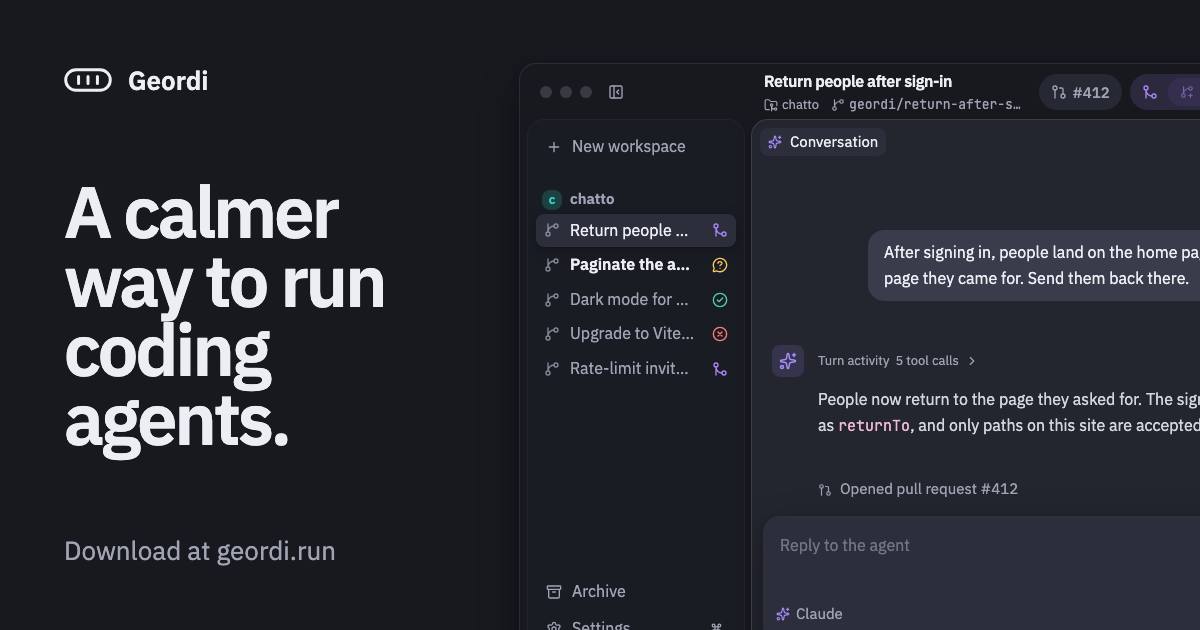
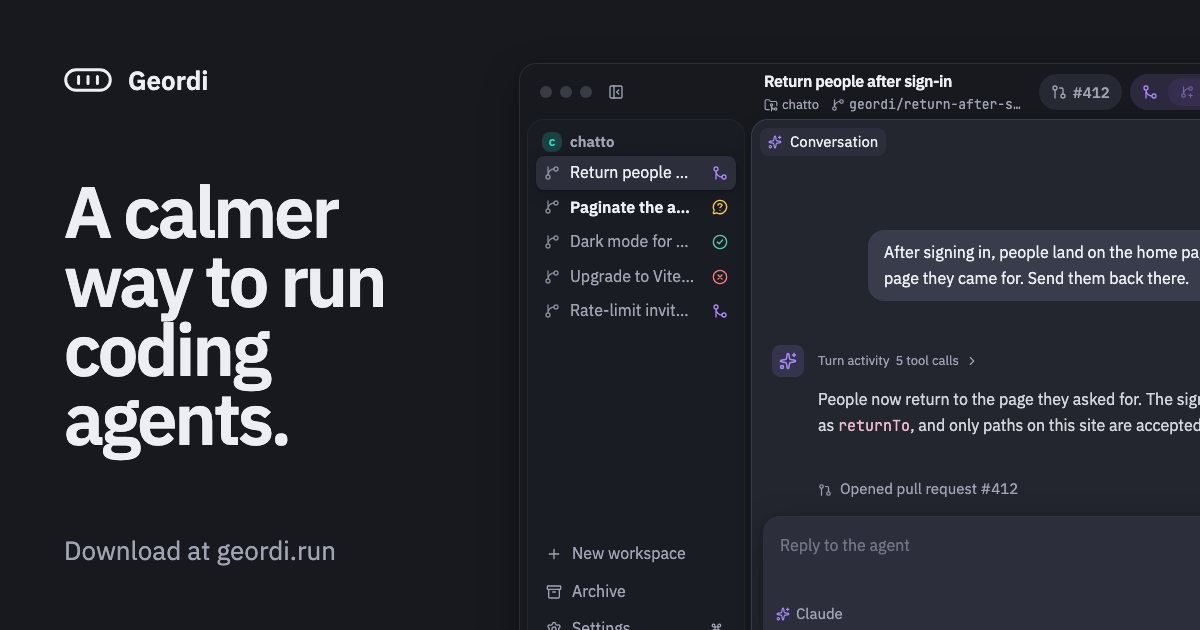
feat: add repository and Today filters to the sidebar (#338)

diff --git a/apps/web/src/lib/components/Sidebar.svelte b/apps/web/src/lib/components/Sidebar.svelte
@@ -2,6 +2,7 @@
 	import { resolve } from '$app/paths';
 	import type { WorkspaceStanding } from '@geordi/ui/actions';
 	import Dialog from '#lib/ui/Dialog.svelte';
+	import Select from '#lib/ui/Select.svelte';
 	import Button from '@geordi/ui/Button.svelte';
 	import ConnectionIndicator from './ConnectionIndicator.svelte';
 	import RepoIcon from '#lib/components/RepoIcon.svelte';
@@ -26,8 +27,7 @@
 	import { moveWorkspace, renameWorkspace, stopAgent } from '../../routes/workspaces.remote';
 
 	/**
-	 * The sidebar's sheet: a new workspace, the workspaces by
-	 * repository, and the archive and settings below. `nav` is what there is, once known; `path` is the
+	 * The sidebar groups workspaces by repository and keeps navigation links below the list. `nav` is what there is, once known; `path` is the
 	 * page on screen, which is marked. `folded` is what is folded away: the workspaces of a
 	 * repository under its name, and those its agents started under a workspace. `focus` is
 	 * the repository shown alone, if any. `visibleWorkspaces` are those shown, `todayOnly` whether
@@ -39,7 +39,8 @@
 		path,
 		folded,
 		focus,
-		todayOnly = false,
+		todayOnly = $bindable(false),
+		repositoryPickerOpen = $bindable(false),
 		lost = false
 	}: {
 		nav: Navigation | undefined;
@@ -48,6 +49,7 @@
 		folded: { current: string[] };
 		focus: { current: string | null };
 		todayOnly?: boolean;
+		repositoryPickerOpen?: boolean;
 		lost?: boolean;
 	} = $props();
 
@@ -68,10 +70,10 @@
 	]);
 	/** What stands for the projects among the folded: no repository has it as its ID. */
 	const PROJECTS = 'projects';
-	/** How many repositories a focus hides: offered at the end, to show them again. */
-	const hidden = $derived(
-		withWorkspaces.filter((repo) => listed.has(repo.id) && !sidebarRepos.includes(repo)).length
-	);
+	const repositoryOptions = $derived([
+		{ value: '', label: 'All repositories' },
+		...withWorkspaces.map(({ id, name }) => ({ value: id, label: name }))
+	]);
 
 	/**
 	 * Repositories and workspaces slide away and back when what is shown changes (the focus,
@@ -297,15 +299,36 @@
 	{/if}
 </Dialog>
 
-<div class="flex min-h-0 flex-1 flex-col sheet-quiet select-none">
-	<nav class="flex-1 space-y-6 overflow-y-auto p-2" aria-label="Main">
-		{@render link(resolve('/'), 'icon-[lucide--plus]', 'New workspace', path === '/')}
+<div class="flex min-h-0 min-w-0 flex-1 flex-col sheet-quiet select-none">
+	<nav class="flex min-h-0 flex-1 flex-col p-2" aria-label="Main">
+		<div
+			role="group"
+			aria-label="Workspace filters"
+			class="mb-2 flex shrink-0 items-center justify-between gap-1"
+		>
+			<Select
+				label="Repository"
+				title={`Search repositories (${hint('repositoryFilter')})`}
+				bind:open={repositoryPickerOpen}
+				options={repositoryOptions}
+				bind:value={() => focus.current ?? '', (value) => (focus.current = value || null)}
+			/>
+			<Button
+				variant="ghost"
+				icon="icon-[lucide--calendar-days]"
+				label="Show workspaces active today"
+				title={`Show workspaces active today (${hint('todayOnly')})`}
+				aria-pressed={todayOnly}
+				class="aria-pressed:bg-sunken aria-pressed:text-ink"
+				onclick={() => (todayOnly = !todayOnly)}
+			/>
+		</div>
 
 		<!--
 			Each repository keeps its own space below it, rather than space between them: what
 			slides away takes its space along, and nothing is left to jump when it is gone.
 		-->
-		<div>
+		<div class="scroller">
 			{#each groups as repo (repo.id ?? PROJECTS)}
 				{@const all = listed.get(repo.id) ?? []}
 				{@const rows = unfolded(all, folded.current)}
@@ -378,27 +401,15 @@
 					{/if}
 				</div>
 			{/each}
-			<!-- with one repository shown alone, the others wait here, out of the way -->
-			{#if hidden > 0}
-				<button
-					type="button"
-					class="mb-4 flex h-7 w-full items-center gap-2 pr-2 pl-1.5 text-left text-sm text-muted/60 hover:text-ink"
-					transition:slide={motion()}
-					onclick={() => (focus.current = null)}
-				>
-					<span class="grid size-5 shrink-0 place-items-center">
-						<span class="icon-[lucide--chevrons-up-down] size-4"></span>
-					</span>
-					<span class="truncate">
-						Show {hidden} other {hidden === 1 ? 'repository' : 'repositories'}
-					</span>
-				</button>
+			{#if nav && todayOnly && groups.length === 0}
+				<p class="px-2 py-1 text-sm text-muted">No workspaces active today.</p>
 			{/if}
 		</div>
 	</nav>
 
-	<div class="p-2">
+	<nav class="p-2" aria-label="Workspace navigation">
 		<ConnectionIndicator {lost} class="px-2.5 py-1" />
+		{@render link(resolve('/'), 'icon-[lucide--plus]', 'New workspace', path === '/')}
 		{@render link(resolve('/archive'), 'icon-[lucide--archive]', 'Archive', path === '/archive')}
 		<a
 			href={settingsPath()}
@@ -409,7 +420,7 @@
 			Settings
 			<kbd class="ml-auto font-sans text-xs text-muted">{settingsHint}</kbd>
 		</a>
-	</div>
+	</nav>
 </div>
 
 {#snippet row(

diff --git a/apps/web/src/lib/components/Sidebar.stories.svelte b/apps/web/src/lib/components/Sidebar.stories.svelte
@@ -7,7 +7,15 @@
 	import ContextMenu from '#lib/ui/ContextMenu.svelte';
 	import Sidebar from './Sidebar.svelte';
 
-	const { Story } = defineMeta({ title: 'Geordi/Sidebar', component: Sidebar });
+	const { Story } = defineMeta({
+		title: 'Geordi/Sidebar',
+		component: Sidebar,
+		beforeEach() {
+			filters.todayOnly = false;
+			focus.current = null;
+			folded.current = [];
+		}
+	});
 
 	type Item = Navigation['workspaces'][number];
 
@@ -15,6 +23,8 @@
 	const folded = $state({ current: [] as string[] });
 	/** The repository shown alone: in the app, remembered in the browser too. */
 	const focus = $state({ current: null as string | null });
+
+	const filters = $state({ todayOnly: false });
 
 	const ready: WorkspaceStanding = {
 		label: 'Ready to merge',
@@ -154,16 +164,21 @@
 	};
 </script>
 
-{#snippet frame(nav: Navigation | undefined, path: string, lost = false, day: string | null = null)}
+{#snippet frame(
+	nav: Navigation | undefined,
+	path: string,
+	lost = false,
+	day = new Date(2026, 10, 20).toDateString()
+)}
 	<!-- as the layout holds it: in the frame, as tall as the window -->
 	<div class="flex h-dvh w-64 bg-frame p-2">
 		<Sidebar
-			visibleWorkspaces={activeOnDay(nav?.workspaces ?? [], day)}
+			visibleWorkspaces={activeOnDay(nav?.workspaces ?? [], filters.todayOnly ? day : null)}
 			{nav}
 			{path}
 			{folded}
 			{focus}
-			todayOnly={day !== null}
+			bind:todayOnly={filters.todayOnly}
 			{lost}
 		/>
 	</div>
@@ -223,9 +238,20 @@
 	asChild
 	play={async ({ canvasElement }) => {
 		const canvas = within(canvasElement);
-		await expect(canvas.getByText('Review the daemon')).toBeVisible();
-		await expect(canvas.queryByText('Scale live views and the event log')).toBeNull();
-		await expect(canvas.queryByText('sample-project')).toBeNull();
+		const today = canvas.getByRole('button', { name: 'Show workspaces active today' });
+		await fireEvent.click(today);
+		await expect(today).toHaveAttribute('aria-pressed', 'true');
+		await waitFor(() => expect(canvas.getByText('Review the daemon')).toBeVisible());
+		await waitFor(() =>
+			expect(canvas.queryByText('Scale live views and the event log')).toBeNull()
+		);
+		await fireEvent.click(canvas.getByRole('button', { name: 'Repository: All repositories' }));
+		await fireEvent.click(await canvas.findByRole('option', { name: 'sample-project' }));
+		await expect(canvas.getByText('No workspaces active today.')).toBeVisible();
+		await fireEvent.click(today);
+		await waitFor(() => expect(canvas.getByText('Try out the new parser')).toBeVisible());
+		await fireEvent.click(canvas.getByRole('button', { name: 'Repository: sample-project' }));
+		await fireEvent.click(await canvas.findByRole('option', { name: 'All repositories' }));
 	}}
 >
 	{@render frame(
@@ -251,7 +277,12 @@
 	name="Nothing yet"
 	asChild
 	play={async ({ canvasElement }) => {
-		await expect(within(canvasElement).getByRole('link', { name: 'New workspace' })).toBeVisible();
+		const menu = within(canvasElement).getByRole('navigation', { name: 'Workspace navigation' });
+		const [create, archive, settings] = within(menu).getAllByRole('link');
+		await expect(create).toHaveAccessibleName('New workspace');
+		await expect(create).toHaveAttribute('aria-current', 'page');
+		await expect(archive).toHaveAccessibleName('Archive');
+		await expect(settings).toHaveAccessibleName(/Settings/);
 	}}
 >
 	{@render frame(undefined, '/')}
@@ -306,8 +337,9 @@
 		await fireEvent.click(only!);
 		// the others slide away
 		await waitFor(() => expect(canvas.queryByText('Raise light mode text contrast')).toBeNull());
-		await expect(canvas.getByText('Try out the new parser')).toBeVisible();
-		await fireEvent.click(canvas.getByRole('button', { name: 'Show 1 other repository' }));
+		await waitFor(() => expect(canvas.getByText('Try out the new parser')).toBeVisible());
+		await fireEvent.click(canvas.getByRole('button', { name: 'Repository: sample-project' }));
+		await fireEvent.click(await canvas.findByRole('option', { name: 'All repositories' }));
 		await waitFor(() => expect(canvas.getByText('Raise light mode text contrast')).toBeVisible());
 	}}
 >
@@ -345,7 +377,7 @@
 			'false'
 		);
 		await fireEvent.click(canvas.getByRole('button', { name: 'Expand sample-project' }));
-		await expect(canvas.getByText('Try out the new parser')).toBeVisible();
+		await waitFor(() => expect(canvas.getByText('Try out the new parser')).toBeVisible());
 	}}
 >
 	{@render frame(nav, '/workspaces/plain')}

diff --git a/apps/web/src/routes/+layout.svelte b/apps/web/src/routes/+layout.svelte
@@ -51,8 +51,11 @@
 
 	// The sidebar can be hidden and made wider or narrower; both are remembered here.
 	const sidebar = persisted('geordi:nav', { open: true, width: 256 });
-	const toggleSidebar = () =>
-		(sidebar.current = { ...sidebar.current, open: !sidebar.current.open });
+	let repositoryPickerOpen = $state(false);
+	function toggleSidebar() {
+		repositoryPickerOpen = false;
+		sidebar.current = { ...sidebar.current, open: !sidebar.current.open };
+	}
 	setTitleBarLead(() => (sidebar.current.open ? undefined : lead));
 	// Leave room for the conversation and its tools in smaller windows.
 	const maxWidth = $derived(Math.max(240, Math.min(720, (innerWidth.current ?? 1320) - 600)));
@@ -155,6 +158,14 @@
 		} else if (pressed(event, 'todayOnly')) {
 			event.preventDefault();
 			if (!event.repeat) todayOnly = !todayOnly;
+		} else if (
+			pressed(event, 'repositoryFilter') &&
+			window.matchMedia('(min-width: 48rem)').matches
+		) {
+			event.preventDefault();
+			if (event.repeat) return;
+			if (!sidebar.current.open) toggleSidebar();
+			repositoryPickerOpen = true;
 		} else if (pressed(event, 'focusRepo')) {
 			event.preventDefault();
 			toggleFocus();
@@ -218,7 +229,8 @@
 					path={page.url.pathname}
 					{folded}
 					{focus}
-					{todayOnly}
+					bind:todayOnly
+					bind:repositoryPickerOpen
 				/>
 			</div>
 

diff --git a/apps/website/src/components/Demo.svelte b/apps/website/src/components/Demo.svelte
@@ -285,11 +285,7 @@
 			<span class="icon-[lucide--panel-left-close] size-4 text-muted"></span>
 		</div>
 		<aside class="flex min-h-0 flex-1 flex-col sheet-quiet">
-			<div class="flex-1 space-y-5 p-2">
-				<p class="item gap-2.5 px-2.5 py-1.5 text-base">
-					<span class="icon-[lucide--plus] size-4 shrink-0"></span>
-					New workspace
-				</p>
+			<div class="flex-1 p-2">
 				<div>
 					<p class="flex h-7 items-center gap-2 px-1.5 text-sm font-semibold text-muted">
 						<span
@@ -326,6 +322,10 @@
 					</ul>
 				</div>
 			</div>
+			<p class="mx-2 item gap-2.5 px-2.5 py-1.5 text-base">
+				<span class="icon-[lucide--plus] size-4 shrink-0"></span>
+				New workspace
+			</p>
 			<p class="mx-2 item gap-2.5 px-2.5 py-1.5 text-base">
 				<span class="icon-[lucide--archive] size-4 shrink-0"></span>
 				Archive

diff --git a/apps/web/src/lib/ui/Select.svelte b/apps/web/src/lib/ui/Select.svelte
@@ -16,6 +16,7 @@
 	type Props = {
 		/** What is being chosen; read out, not shown. */
 		label: string;
+		title?: string;
 		/** A keyboard shortcut that opens and focuses this picker, given its button. */
 		shortcut?: (event: KeyboardEvent, button: HTMLElement) => boolean;
 		value?: T;
@@ -34,6 +35,7 @@
 	};
 	let {
 		label,
+		title,
 		value = $bindable(),
 		options,
 		trigger,
@@ -149,6 +151,7 @@
 -->
 <button
 	bind:this={button}
+	{title}
 	type="button"
 	popovertarget="{id}-popup"
 	aria-haspopup="listbox"

diff --git a/packages/ui/src/keys.ts b/packages/ui/src/keys.ts
@@ -29,6 +29,12 @@ export const shortcuts = {
 		label: 'Next unread workspace',
 		group: 'General'
 	},
+	repositoryFilter: {
+		code: 'KeyF',
+		alt: true,
+		label: 'Search the sidebar repository filter',
+		group: 'General'
+	},
 	focusRepo: {
 		code: 'KeyF',
 		shift: true,

diff --git a/docs/fdr/FDR-001-workspaces.md b/docs/fdr/FDR-001-workspaces.md
@@ -9,7 +9,7 @@ A workspace is a piece of work: one conversation with one agent, in a Git worktr
 
 ## Behavior
 
-- A workspace is started with an agent and a repository, and usually with a first prompt (without one, it is there with its worktree, waiting to be told what to do): from "New workspace" in the sidebar, where the repository worked in last is preselected, or from the + beside a repository's name. It gets its own worktree and branch, which starts from the main branch of the repository's upstream as it stands at that moment (Geordi fetches first), not from whatever the repository has checked out. A repository without an upstream, or one that can't be reached, starts from what is there. It is named after the first line of that prompt at first. Its agent then gives it a short name that says what the work is about, once it knows (the agent API's `name_workspace`), and may change it a couple of times if the work turns out to be about something else. Until then, the title its agent gives the conversation (Claude makes one from the prompt within seconds; Codex once its first turn ends) bridges the moments, and replaces the first line; a name the agent or whoever started the workspace chose is never replaced by it.
+- A workspace is started with an agent and a repository, and usually with a first prompt (without one, it is there with its worktree, waiting to be told what to do): from "New workspace" at the bottom of the sidebar, above Archive and Settings, where the repository worked in last is preselected, or from the + beside a repository's name. It gets its own worktree and branch, which starts from the main branch of the repository's upstream as it stands at that moment (Geordi fetches first), not from whatever the repository has checked out. A repository without an upstream, or one that can't be reached, starts from what is there. It is named after the first line of that prompt at first. Its agent then gives it a short name that says what the work is about, once it knows (the agent API's `name_workspace`), and may change it a couple of times if the work turns out to be about something else. Until then, the title its agent gives the conversation (Claude makes one from the prompt within seconds; Codex once its first turn ends) bridges the moments, and replaces the first line; a name the agent or whoever started the workspace chose is never replaced by it.
 - Choose **Rename workspace** in the sidebar context menu to set the name yourself. Once you save it, only you can rename the workspace again.
 - A workspace has exactly one conversation. To work on something else, or to have a second agent, start another workspace (or let the agent start one: FDR-002).
 - Geordi saves each prompt before sending it. While a saved prompt waits for an offline daemon, the conversation shows **Waiting for daemon**. Delivery resumes when it reconnects.
@@ -25,7 +25,7 @@ A workspace is a piece of work: one conversation with one agent, in a Git worktr
 - An agent shows a picture (a screenshot, a chart) by writing a Markdown image with the path of its file: it appears in its reply, and opens in full when clicked. The file is read where the agent works, when the reply is shown: PNG, JPEG, WebP or GIF, at most 5 MB, from the worktree or anywhere else on that machine. A file that is gone, or is no picture, leaves its path. Images from the web are never loaded, only linked.
 - An absolute Markdown link to a file in the worktree opens its current contents in a workspace tab, including files with no changes. A trailing line number such as `:139` scrolls to that line and highlights it. If the file is unavailable, the tab explains why it cannot show the text.
 - The workspace's ID is shown in its header; a click copies it.
-- Cmd/Ctrl+Shift+T toggles an experimental sidebar filter for workspaces with activity today. The day starts at local midnight. Previous and next workspace follow the filtered list.
+- At the top of the sidebar, the repository picker and Today toggle stay visible as the list scrolls. Cmd+Option+F on Mac or Ctrl+Alt+F elsewhere opens the picker and focuses its search field, revealing the sidebar if needed. Choose a repository to focus it, or All repositories to clear focus. The calendar button limits the list to workspaces with activity today and can be combined with repository focus. Cmd/Ctrl+Shift+T also toggles Today. The day starts at local midnight. Previous and next workspace follow the filtered list.
 - Cmd/Ctrl+Shift+Enter opens the next unread workspace in visible sidebar order, wrapping to the top when needed. If no other visible workspace is unread, you stay where you are.
 - Cmd/Ctrl+B hides and shows the navigation on the left, and with Alt/Option the changes and dock on the right. Both also have a button, and the navigation's edge can be dragged to resize it.
 - A workspace has a fixed frame: the main area, and beside it the changes above the dock. The lines between them can be dragged to resize, and that is all that can be changed about the frame.

diff --git a/planning/kzxka-toggle-today-s-workspaces-in-the-sidebar.md b/planning/kzxka-toggle-today-s-workspaces-in-the-sidebar.md
@@ -9,3 +9,5 @@ title: Toggle today's workspaces in the sidebar
 Cmd/Ctrl+Shift+T toggles workspaces with activity on the current local calendar day. Keyboard navigation follows the visible list.
 
 Verified the toggle and local midnight rollover with both Mac and Linux shortcuts in the running forge.
+
+The sidebar now has a repository picker and calendar button at the top. New workspace is the first link in the bottom menu. Browser stories cover selecting a repository while Today is active, the empty result, and clearing each filter. Cmd+Option+F on Mac or Ctrl+Alt+F elsewhere opens repository search. Verified keyboard selection with the sidebar open and collapsed.

diff --git a/.sweet/green-bright-crane.md b/.sweet/green-bright-crane.md
@@ -1,0 +1,5 @@
+---
+type: feature
+---
+
+At the top of the sidebar, you can use the calendar button to show workspaces active today. Press Cmd+Option+F on Mac or Ctrl+Alt+F elsewhere to search the repository picker. New workspace is now above Archive and Settings at the bottom of the sidebar.
